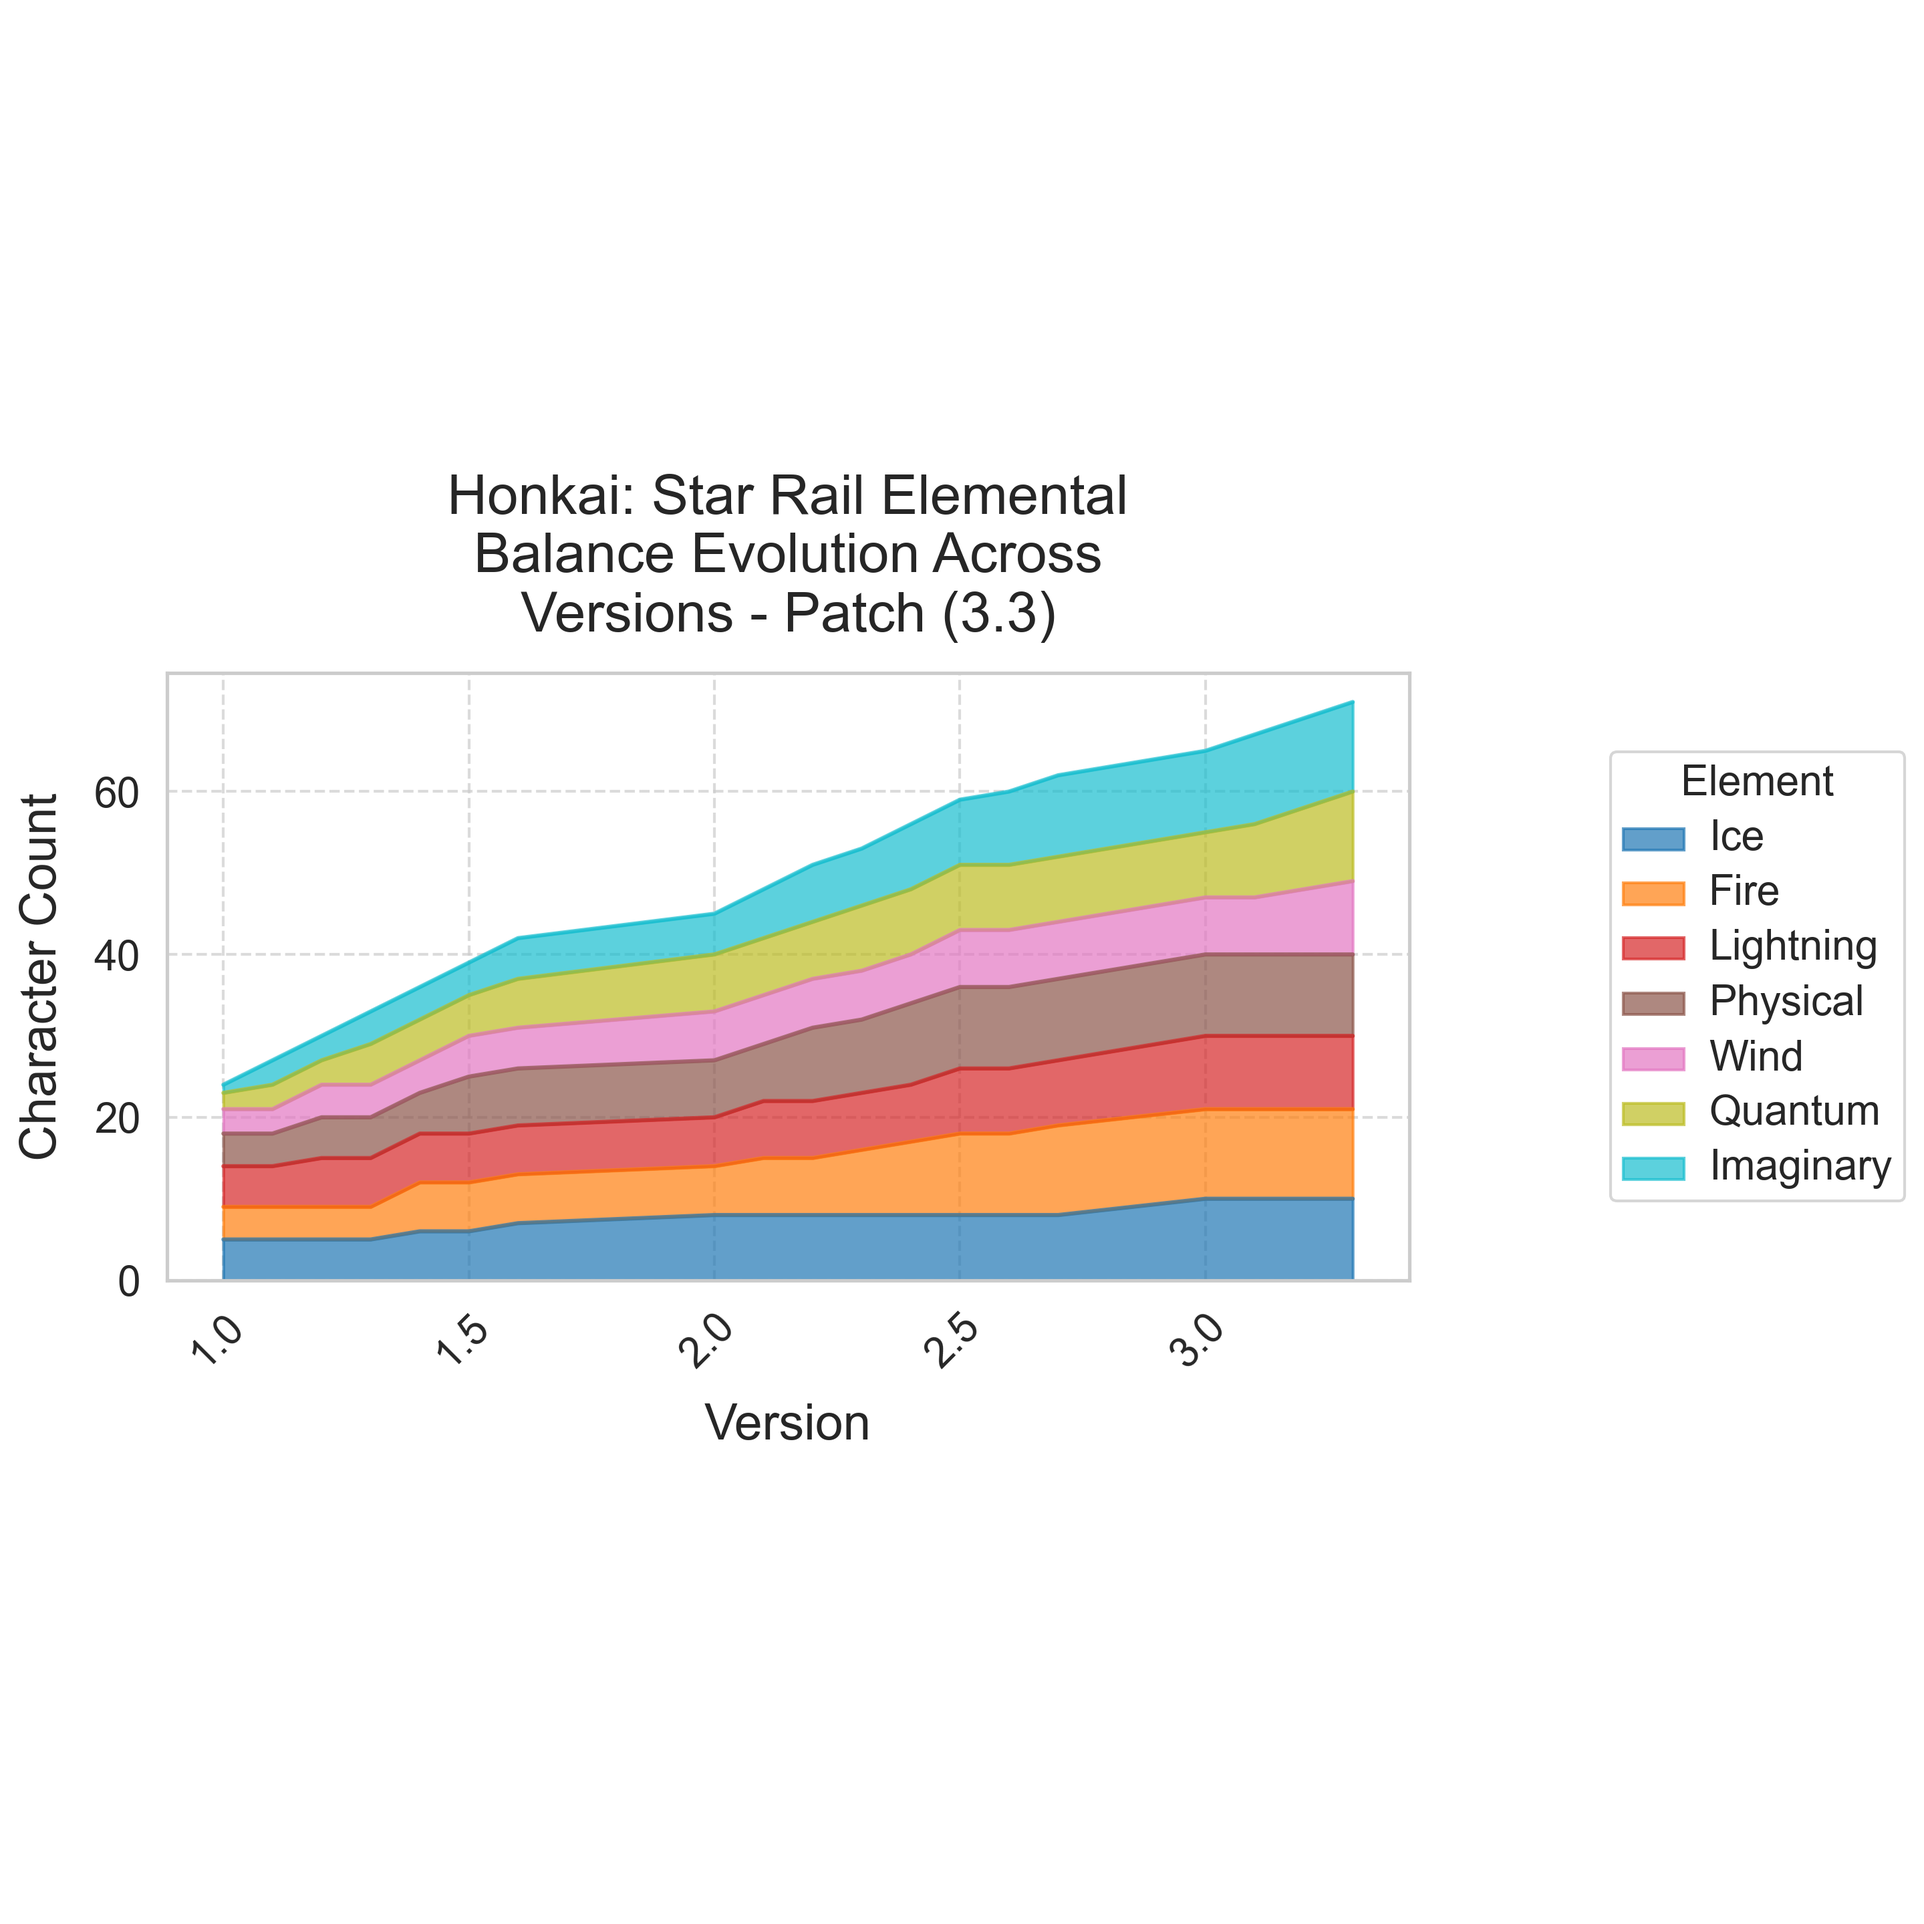
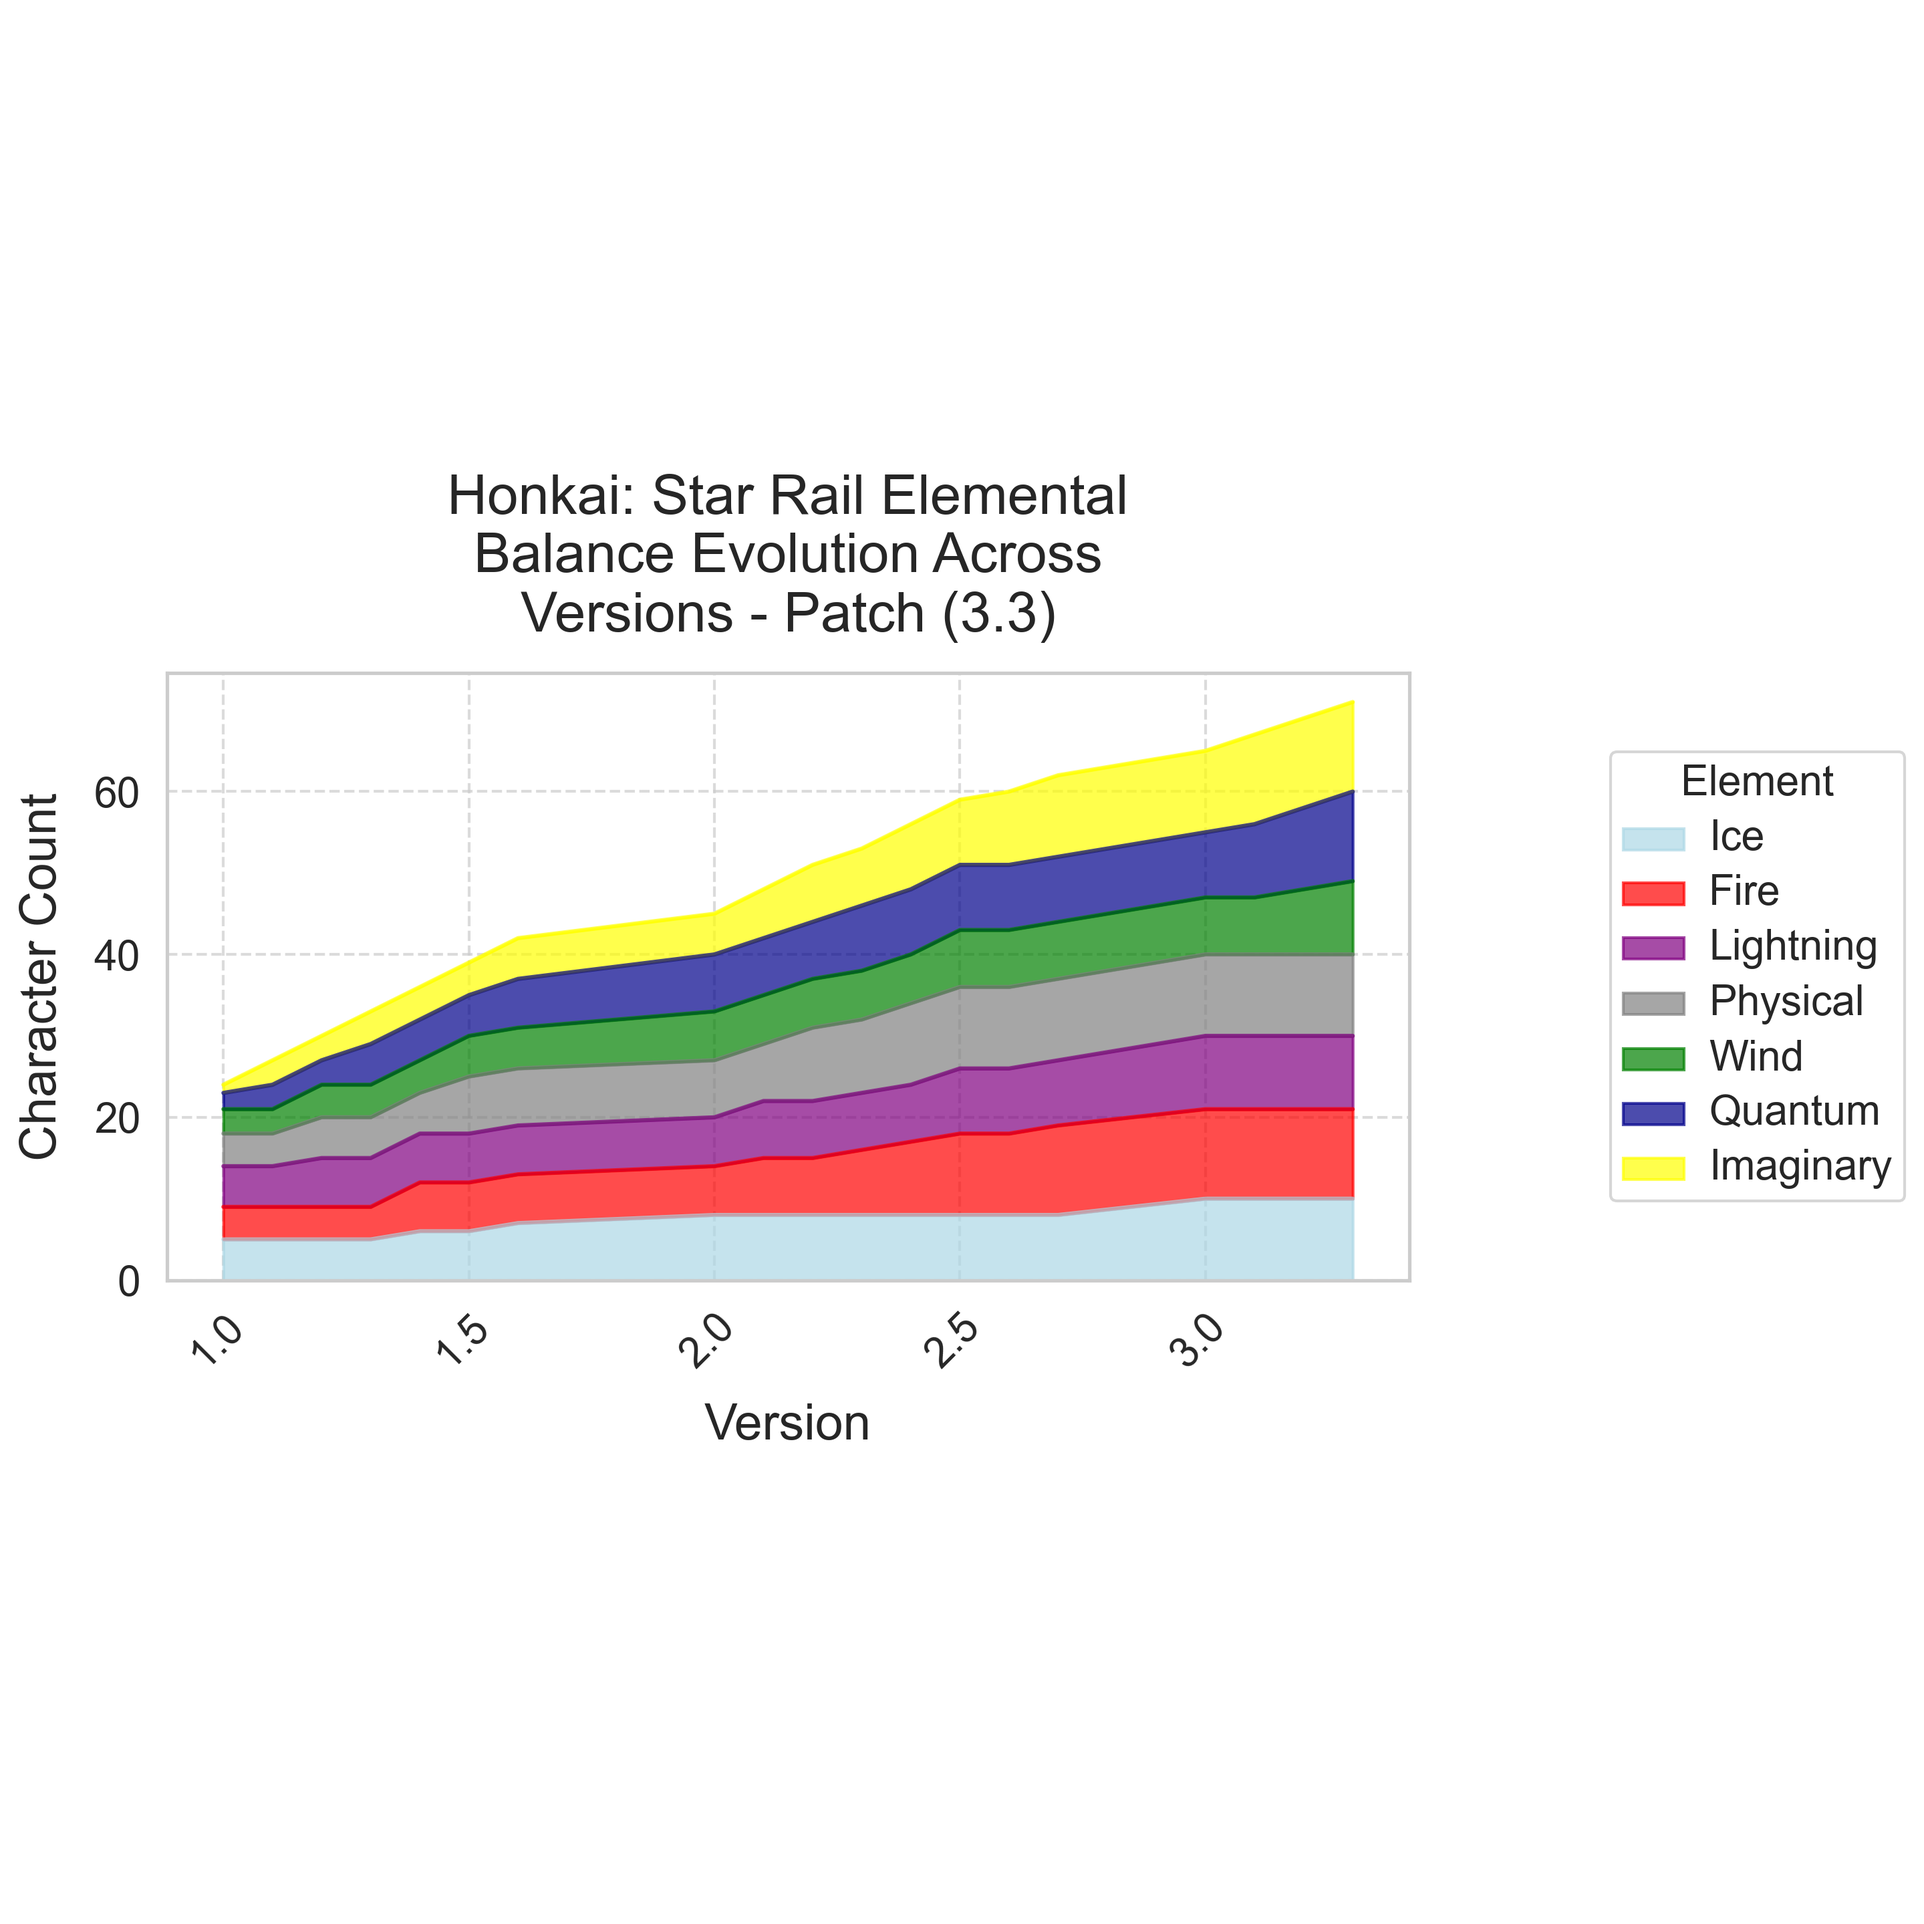
refactor: update type hints for improved type safety across multiple modules

Changed region(s): [[0.0927, 0.371, 0.711, 0.6801], [0.8347, 0.4328, 0.8965, 0.6183]]

diff --git a/hsrws/visual/data_utils.py b/hsrws/visual/data_utils.py
@@ -1,7 +1,8 @@
 """Data utility functions for visualization."""
 
+from typing import Any
 import pandas as pd
-from sqlalchemy import text
+from sqlalchemy import Select, text
 from loguru import logger
 from hsrws.db import get_session
 from hsrws.db.queries import (
@@ -14,7 +15,7 @@ from hsrws.db.queries import (
 )
 
 
-def fetch_data_orm(stmt):
+def fetch_data_orm(stmt: Select[tuple[Any, ...]]):
     """
     Fetches data from the database using SQLAlchemy ORM.
 
@@ -35,7 +36,7 @@ def fetch_data_orm(stmt):
         return pd.DataFrame(result, columns=column_names)
 
 
-def fetch_view_data(view_name):
+def fetch_view_data(view_name: str):
     """
     Fetches data from a SQL view.
 
@@ -51,9 +52,9 @@ def fetch_view_data(view_name):
         result = session.execute(sql_query)
 
         # Get column names from the result's keys method
-        if result.returns_rows:
+        if result.returns_rows: # type: ignore
             # Get result as a list of dictionaries for pandas
-            rows = [dict(row._mapping) for row in result]
+            rows = [dict(row._mapping) for row in result] # type: ignore
             if rows:
                 return pd.DataFrame(rows)
 
@@ -69,7 +70,7 @@ def get_latest_patch():
         Latest patch version number formatted as "Patch (X.X)".
     """
     result = fetch_data_orm(get_latest_patch_stmt())
-    version = result.iloc[0]["latest_version"]
+    version: float = result.iloc[0]["latest_version"] # type: ignore
     return f"Patch ({version})"
 
 

diff --git a/hsrws/visual/plotting/plotting_area.py b/hsrws/visual/plotting/plotting_area.py
@@ -6,6 +6,7 @@ from loguru import logger
 
 from hsrws.visual.config import ChartConfig
 from hsrws.visual.plotting.plotting_base import _setup_chart_basics
+from hsrws.visual.data_utils import get_element_colors
 
 
 def plot_element_balance_evolution(
@@ -28,15 +29,23 @@ def plot_element_balance_evolution(
     if config is None:
         config = ChartConfig()
 
+    # Get element-specific colors
+    element_colors = get_element_colors()
+    
+    # Filter the color dictionary to include only columns that exist in the DataFrame
+    # Excluding the 'Version' column which is used as the index
+    available_columns = [col for col in df.columns if col != 'Version']
+    color_mapping = {col: element_colors.get(col, 'gray') for col in available_columns}
+
     # Create figure and axis with landscape ratio for evolutionary data
     fig, ax = plt.subplots(figsize=config.get_size("area"))
 
-    # Create area chart
+    # Create area chart with element-specific colors
     df.set_index("Version").plot(
         kind="area",
         stacked=True,
         ax=ax,
-        colormap=config.get_colormap("area"),
+        color=color_mapping,
         alpha=0.7,  # Add transparency to make layers more visible
     )
 

diff --git a/hsrws/visual/charts.py b/hsrws/visual/charts.py
@@ -1,9 +1,12 @@
 """Chart creation functionality."""
 
 import os
+from matplotlib.figure import Figure
 import matplotlib.pyplot as plt
 import seaborn as sns
 from loguru import logger
+import io
+from PIL import Image
 
 from hsrws.visual.config import ChartConfig
 from hsrws.visual.data_utils import (
@@ -23,7 +26,7 @@ from hsrws.visual.plotting import (
 )
 
 
-def save_figure(fig, filename, config):
+def save_figure(fig: Figure, filename: str, config: ChartConfig):
     """
     Saves a matplotlib figure to file with a 1:1 aspect ratio.
 
@@ -32,15 +35,12 @@ def save_figure(fig, filename, config):
         filename: Output filename.
         config: Chart configuration object.
     """
-    import io
-    from PIL import Image
-
     # Ensure visualization directories exist
     os.makedirs("hsrws/visual/visual_img", exist_ok=True)
 
     # Save original figure to a BytesIO buffer
     buf = io.BytesIO()
-    fig.savefig(
+    fig.savefig( # type: ignore
         buf,
         format="png",
         bbox_inches=config.bbox_inches,

diff --git a/main.py b/main.py
@@ -37,15 +37,15 @@ def scrape_data() -> pd.DataFrame:
     url: str = "https://sg-wiki-api.hoyolab.com/hoyowiki/hsr/wapi/get_entry_page_list"
     headers: dict[str, Any] = get_headers()
 
-    scraper: Scraper = Scraper()
+    scraper: Scraper = Scraper() # type: ignore
     character_data_dataframe: pd.DataFrame = asyncio.run(
         scraper.scrape_hsr_data(url, headers)
     )
 
-    character_data_dataframe["Character"] = character_data_dataframe["Character"].apply(
+    character_data_dataframe["Character"] = character_data_dataframe["Character"].apply( # type: ignore
         transform_char_name
     )
-    character_data_dataframe["Path"] = character_data_dataframe["Path"].apply(
+    character_data_dataframe["Path"] = character_data_dataframe["Path"].apply( # type: ignore
         clean_path_name
     )
 

diff --git a/hsrws/core/scraper.py b/hsrws/core/scraper.py
@@ -25,7 +25,7 @@ class Scraper(BaseModel):
     page_num: int = Field(0, ge=0)
     char_data_dict: dict[str, list[Any]] = Field(default_factory=default_char_data_dict)
 
-    async def scrape_hsr_data(self, url: str, headers: dict) -> pd.DataFrame:
+    async def scrape_hsr_data(self, url: str, headers: dict[str, Any]) -> pd.DataFrame:
         """
         Scrapes HSR character data from JSON response.
 
@@ -58,8 +58,8 @@ class Scraper(BaseModel):
 
     @staticmethod
     async def _fetch_character_list(
-        url: str, headers: dict, payload_data: dict
-    ) -> list[dict]:
+        url: str, headers: dict[str, Any], payload_data: dict[str, Any]
+    ) -> list[dict[str, Any]]:
         """
         Fetches the character list from the API.
 

diff --git a/hsrws/db/queries/character_stats.py b/hsrws/db/queries/character_stats.py
@@ -1,17 +1,19 @@
 """SQLAlchemy queries for character statistics."""
 
-from sqlalchemy import func, select
+from sqlalchemy import Column, Select, func, select
 from hsrws.db.models import HsrCharacter
 
 
-def get_latest_patch_stmt():
+def get_latest_patch_stmt() -> Select[tuple[float]]:
     """
     Returns the statement to get the latest patch version.
 
     Returns:
         SQLAlchemy SELECT statement.
     """
-    return select(func.max(HsrCharacter.Version).label("latest_version"))
+    version_data: Column[float] = HsrCharacter.Version
+    latest_version_data = func.max(version_data)
+    return select(latest_version_data.label("latest_version"))
 
 
 def get_path_distribution_stmt():

diff --git a/hsrws/data/transformer.py b/hsrws/data/transformer.py
@@ -60,9 +60,9 @@ def add_char_version(df: pd.DataFrame) -> None:
         df: Character Dataframe.
     """
     logger.debug("Adding character version...")
-    version_and_character_dict: dict[int, list[str]] = get_version_dict()
-    df["Version"] = df["Character"].apply(
-        lambda character: next(
+    version_and_character_dict: dict[float, list[str]] = get_version_dict()
+    df["Version"] = df["Character"].apply( # type: ignore
+        lambda character: next( # type: ignore
             (
                 version
                 for version, characters in version_and_character_dict.items()

diff --git a/hsrws/utils/payload.py b/hsrws/utils/payload.py
@@ -62,7 +62,7 @@ def default_char_data_dict() -> dict[str, list[Any]]:
     }
 
 
-def get_first_value(data: dict[str, Any], *keys: str, default=None) -> str | int | None:
+def get_first_value(data: dict[str, Any], *keys: str, default: Any = None) -> str | int | None:
     """
     Retrieves the first value from a nested dictionary structure.
 

diff --git a/hsrws/core/character.py b/hsrws/core/character.py
@@ -9,7 +9,7 @@ from hsrws.core.scraper import Scraper
 from hsrws.utils.payload import get_first_value
 
 
-async def process_character_list(scraper: Scraper, char_list: list[dict]) -> None:
+async def process_character_list(scraper: Scraper, char_list: list[dict[str, Any]]) -> None:
     """
     Processes the character list.
 

diff --git a/hsrws/utils/version.py b/hsrws/utils/version.py
@@ -1,7 +1,7 @@
 """Version-related utility functions."""
 
 
-def get_version_dict() -> dict[int, list[str]]:
+def get_version_dict() -> dict[float, list[str]]:
     """
     Gets a dictionary of characters released in each version.
 

diff --git a/hsrws/db/models/characters.py b/hsrws/db/models/characters.py
@@ -24,4 +24,4 @@ class HsrCharacter(Base):
     Path = Column(String)
     Element = Column(String)
     Rarity = Column(String)
-    Version = Column(Float)
+    Version: Column[float] = Column(Float)
